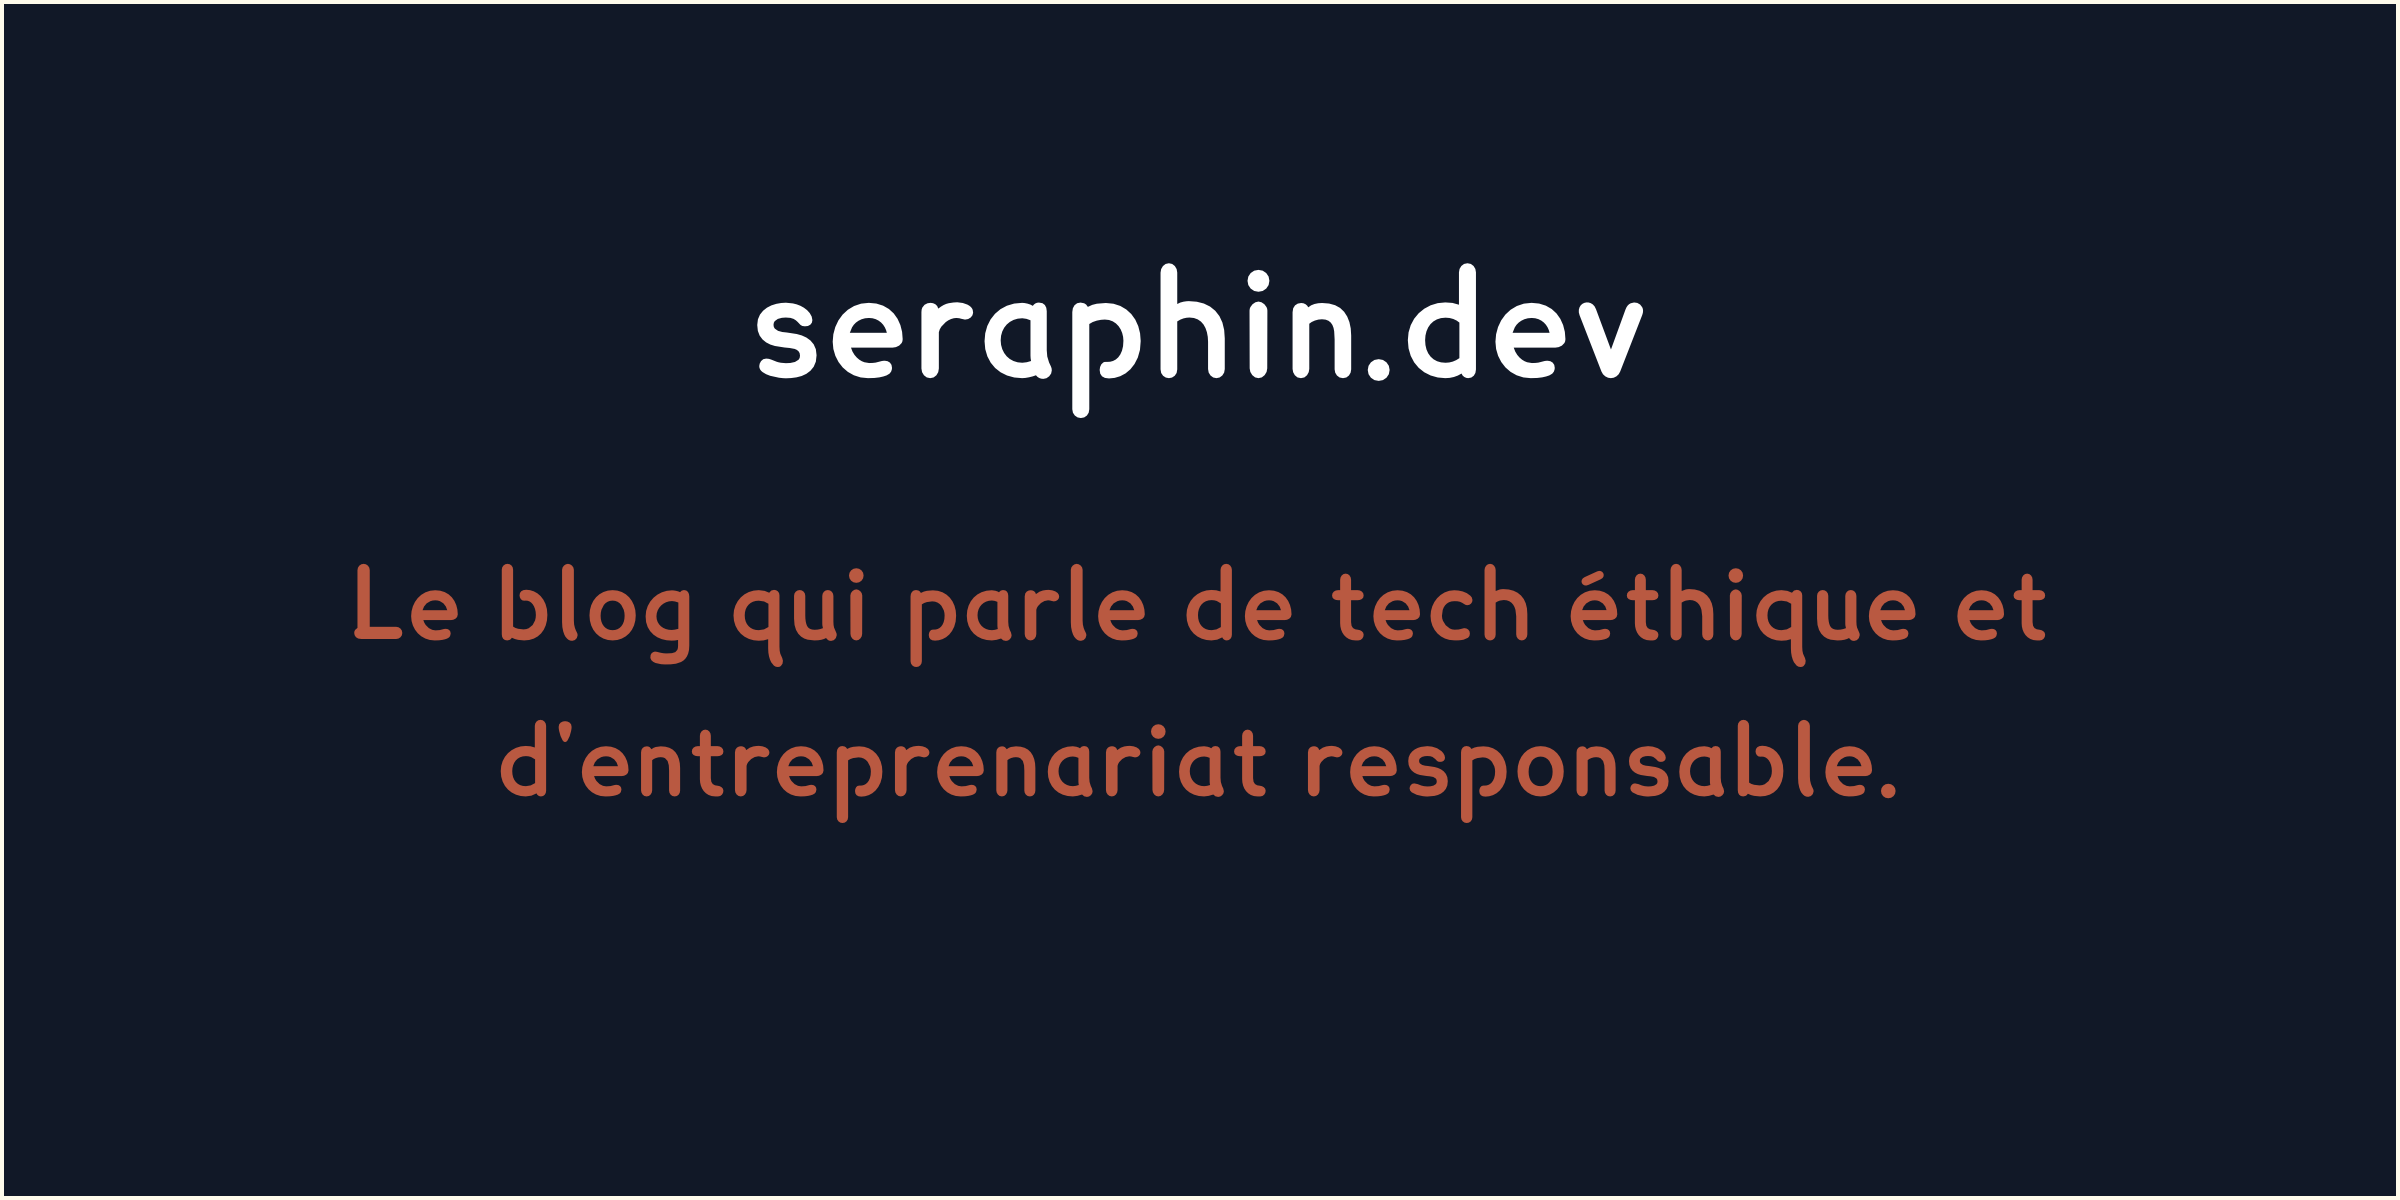
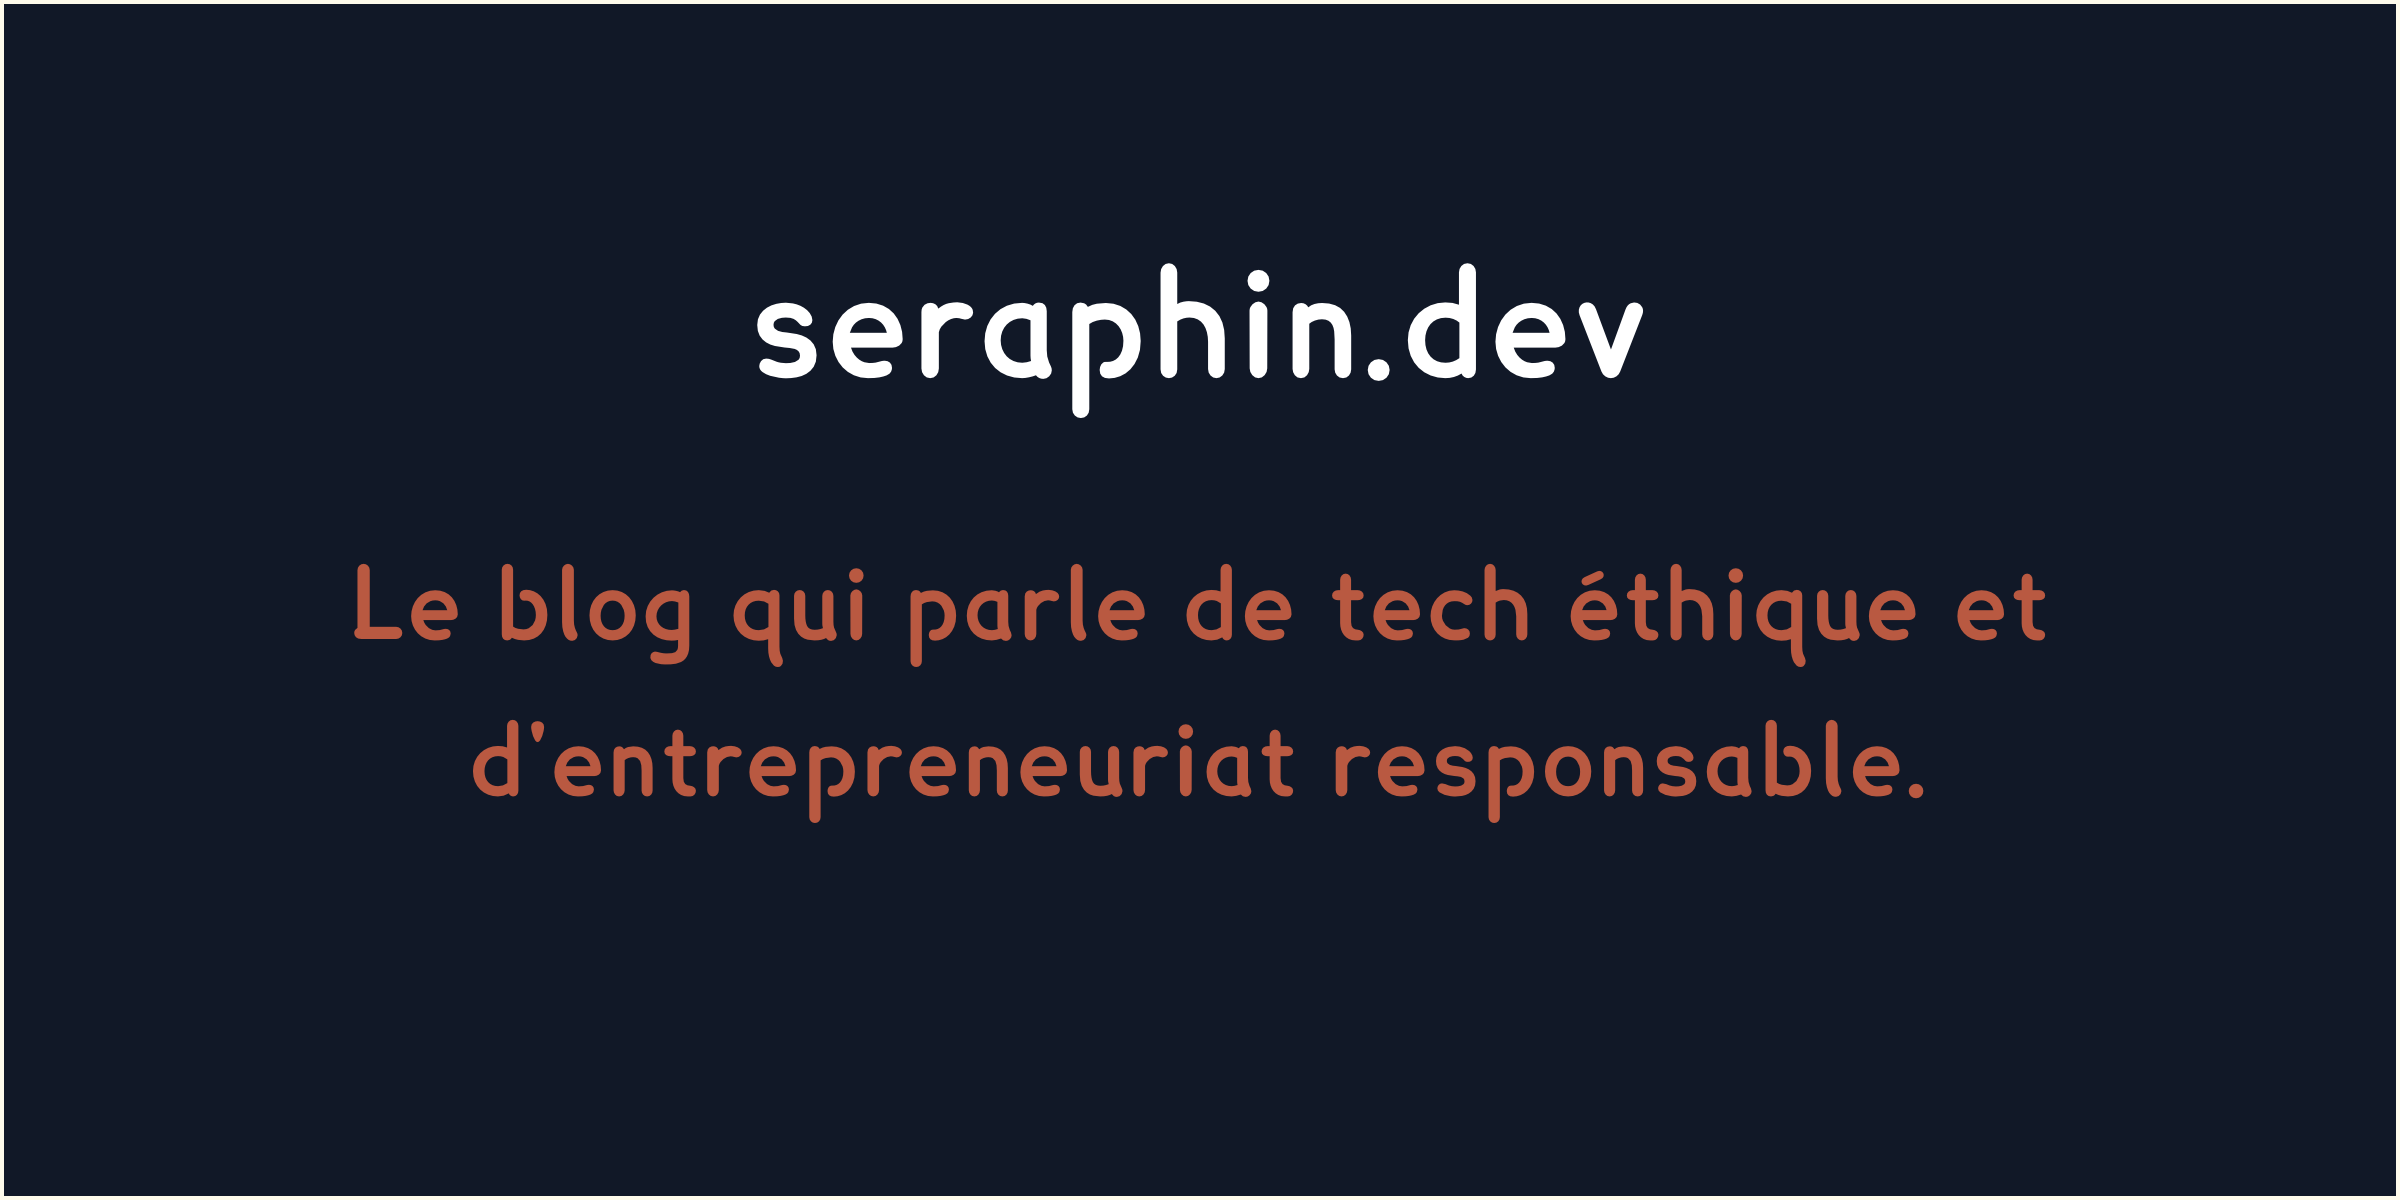
BLOG - Fix typo in images

Changed region(s): [[0.1875, 0.5858, 0.8125, 0.6783]]

diff --git a/pages/_imageBuilder.js b/pages/_imageBuilder.js
@@ -17,11 +17,11 @@ export default function _imageBuilder() {
           Le minimalisme entrepreneurial : qu’est-ce que c’est?
         </h1>
         <p className="mt-auto text-2xl text-secondary-500">
-          seraphin.dev: le blog qui parle de tech éthique et d'entreprenariat responsable.
+          seraphin.dev: le blog qui parle de tech éthique et d'entrepreneuriat responsable.
         </p>
         {/*<h1 className="mt-16 text-center text-7xl">seraphin.dev</h1>*/}
         {/*<h1 className="mt-16 text-center text-5xl leading-relaxed text-secondary-500">*/}
-        {/*  Le blog qui parle de tech éthique et d'entreprenariat responsable.*/}
+        {/*  Le blog qui parle de tech éthique et d'entrepreneuriat responsable.*/}
         {/*</h1>*/}
       </div>
     </>
